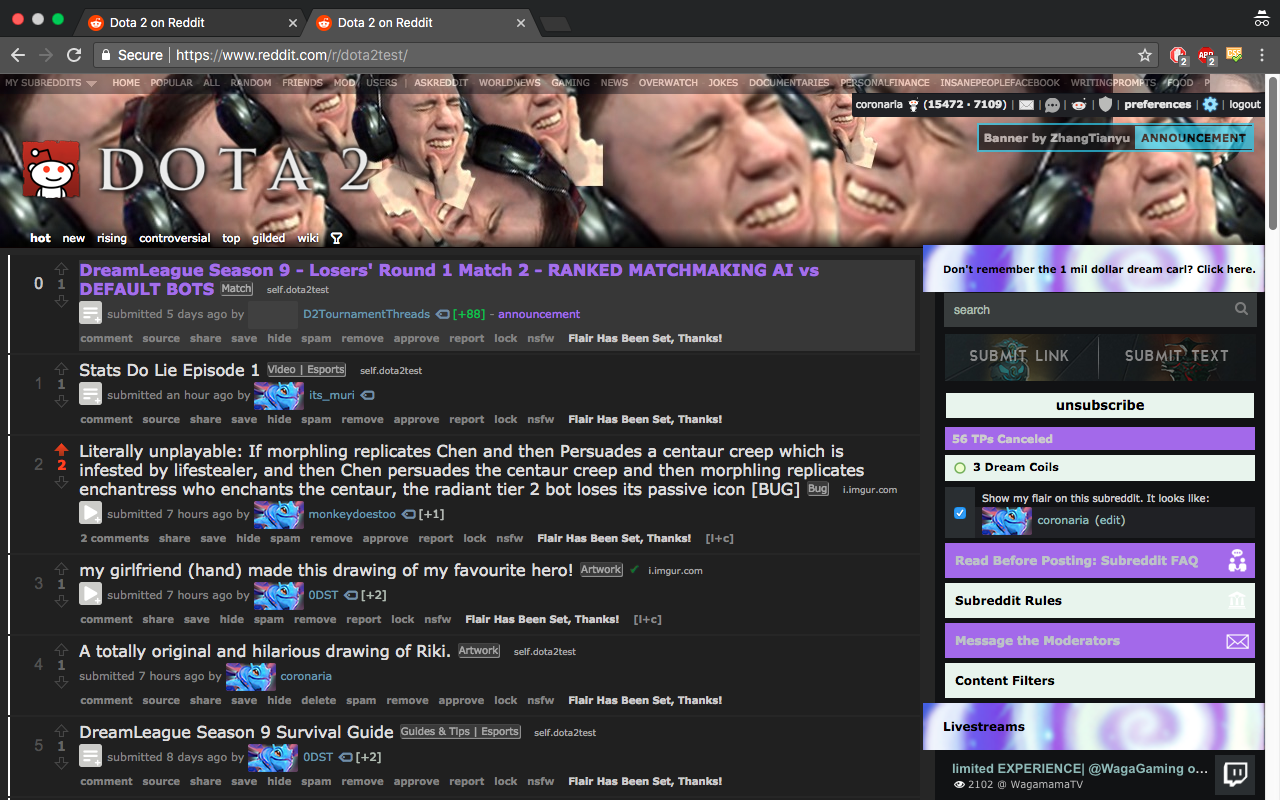
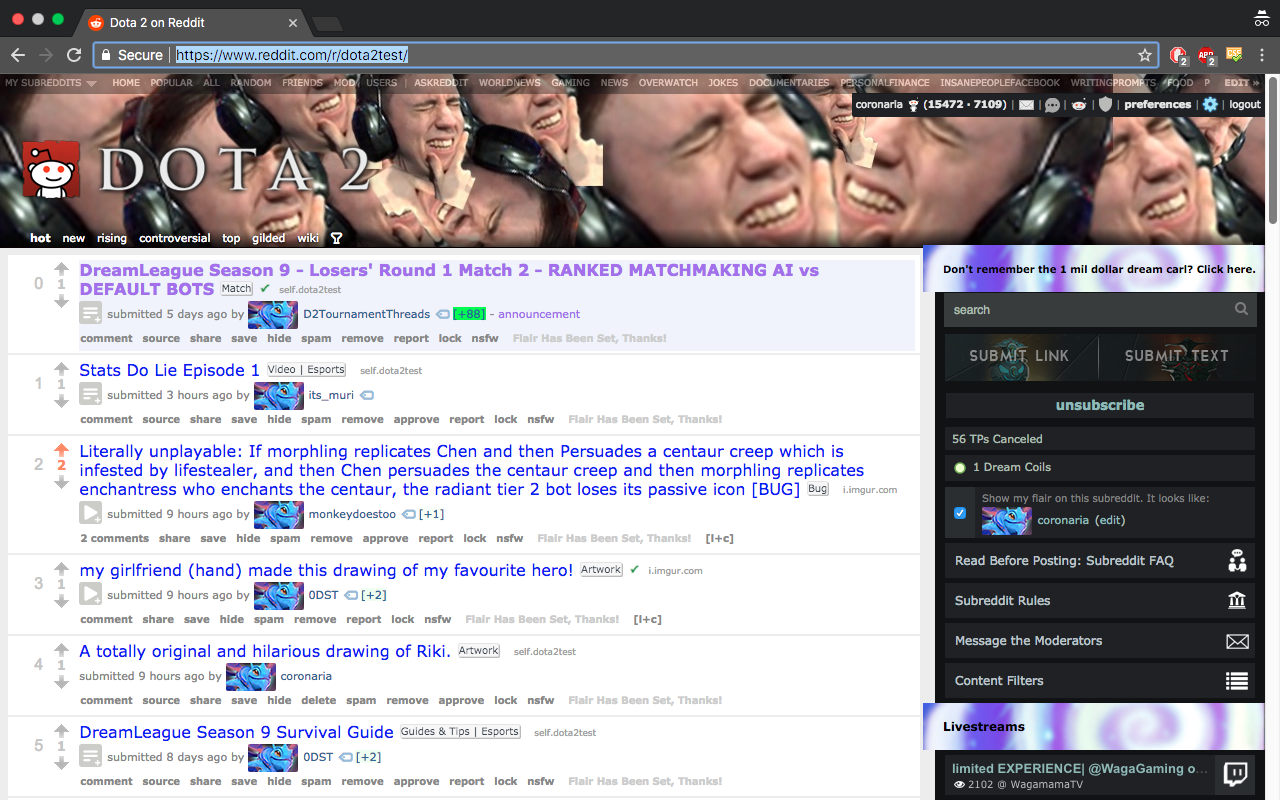
fix s4 screenshot

diff --git a/subredditstyles/s4/s4.css b/subredditstyles/s4/s4.css
@@ -20,7 +20,7 @@
 }
 
 .res-nightmode .users-online .number:after {
-    content: " Dream Coils";
+    content: " Dream Coil";
     text-transform: none;
 }
 
